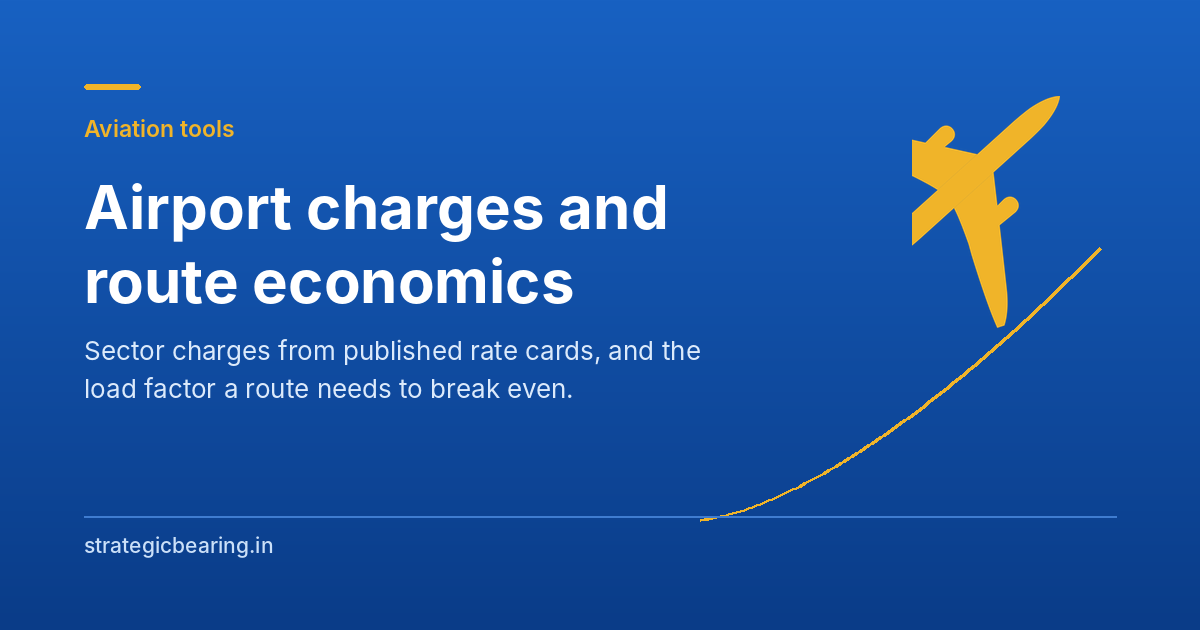
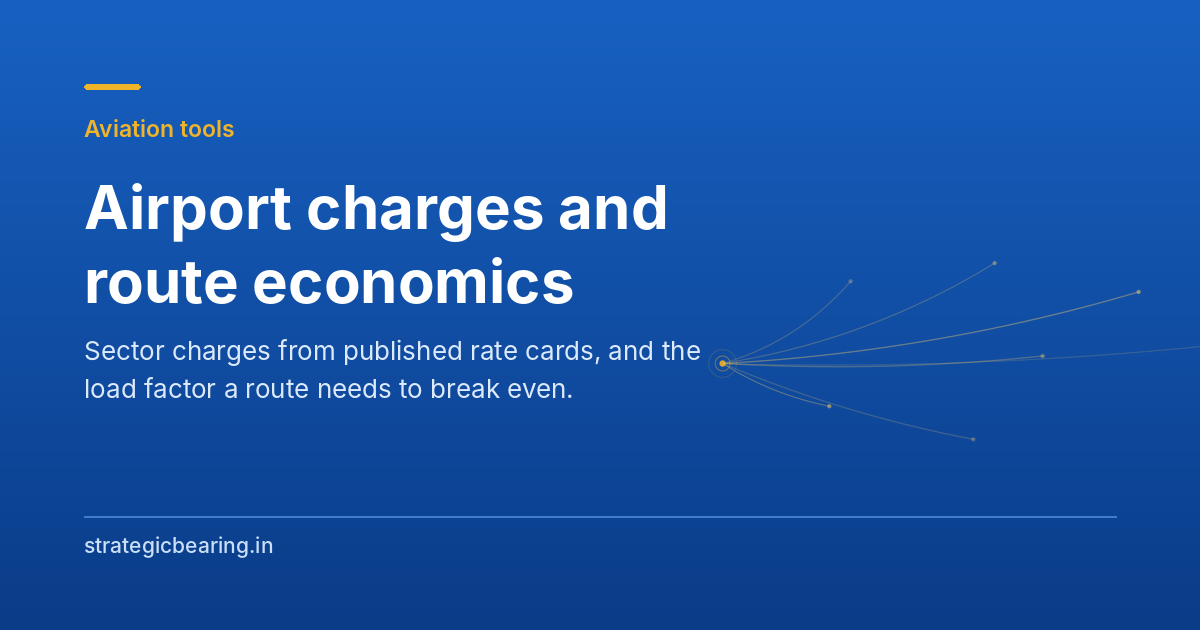
New theme

diff --git a/index.html b/index.html
@@ -245,16 +245,9 @@ footer a:hover{color:var(--accent-soft)}
 <header class="hero">
   <div class="hero-main">
   <svg class="departure" viewBox="0 0 620 600" aria-hidden="true" focusable="false">
-<defs>
-<linearGradient id="trk" x1="0" y1="1" x2="1" y2="0">
-<stop offset="0" stop-color="#FFD166" stop-opacity="0"/>
-<stop offset=".5" stop-color="#FFD166" stop-opacity=".3"/>
-<stop offset="1" stop-color="#FFD166" stop-opacity=".7"/>
-</linearGradient>
-</defs>
-<path d="M 28.0 486.0 L 31.9 485.8 L 35.8 485.4 L 39.8 484.9 L 43.7 484.3 L 47.6 483.5 L 51.5 482.7 L 55.4 481.7 L 59.4 480.7 L 63.3 479.6 L 67.2 478.5 L 71.1 477.2 L 75.0 475.9 L 79.0 474.5 L 82.9 473.1 L 86.8 471.6 L 90.7 470.0 L 94.6 468.4 L 98.6 466.7 L 102.5 465.0 L 106.4 463.2 L 110.3 461.3 L 114.2 459.4 L 118.2 457.4 L 122.1 455.4 L 126.0 453.4 L 129.9 451.2 L 133.8 449.1 L 137.8 446.9 L 141.7 444.6 L 145.6 442.3 L 149.5 439.9 L 153.4 437.5 L 157.4 435.1 L 161.3 432.6 L 165.2 430.1 L 169.1 427.5 L 173.0 424.9 L 177.0 422.2 L 180.9 419.5 L 184.8 416.8 L 188.7 414.0 L 192.6 411.1 L 196.6 408.3 L 200.5 405.3 L 204.4 402.4 L 208.3 399.4 L 212.2 396.4 L 216.2 393.3 L 220.1 390.2 L 224.0 387.0 L 227.9 383.9 L 231.8 380.6 L 235.8 377.4 L 239.7 374.1 L 243.6 370.7 L 247.5 367.4 L 251.4 364.0 L 255.4 360.5 L 259.3 357.0 L 263.2 353.5 L 267.1 350.0 L 271.0 346.4 L 275.0 342.8 L 278.9 339.1 L 282.8 335.4 L 286.7 331.7 L 290.6 327.9 L 294.6 324.1 L 298.5 320.3 L 302.4 316.5 L 306.3 312.6 L 310.2 308.6 L 314.2 304.7 L 318.1 300.7 L 322.0 296.7 L 325.9 292.6 L 329.8 288.5 L 333.8 284.4 L 337.7 280.3 L 341.6 276.1 L 345.5 271.9 L 349.4 267.6 L 353.4 263.3 L 357.3 259.0 L 361.2 254.7 L 365.1 250.3 L 369.0 245.9 L 373.0 241.5 L 376.9 237.0 L 380.8 232.5 L 384.7 228.0 L 388.6 223.5 L 392.6 218.9 L 396.5 214.3 L 400.4 209.6 L 404.3 205.0 L 408.2 200.3 L 412.2 195.5 L 416.1 190.8 L 420.0 186.0" fill="none" stroke="url(#trk)" stroke-width="2.2" stroke-linecap="round"/>
-<circle cx="51.5" cy="482.7" r="2.2" fill="#FFD166" opacity="0.15"/><circle cx="94.6" cy="468.4" r="2.2" fill="#FFD166" opacity="0.20"/><circle cx="137.8" cy="446.9" r="2.2" fill="#FFD166" opacity="0.25"/><circle cx="180.9" cy="419.5" r="2.2" fill="#FFD166" opacity="0.30"/><circle cx="224.0" cy="387.0" r="2.2" fill="#FFD166" opacity="0.34"/><circle cx="267.1" cy="350.0" r="2.2" fill="#FFD166" opacity="0.39"/><circle cx="310.2" cy="308.6" r="2.2" fill="#FFD166" opacity="0.44"/><circle cx="353.4" cy="263.3" r="2.2" fill="#FFD166" opacity="0.49"/><circle cx="396.5" cy="214.3" r="2.2" fill="#FFD166" opacity="0.54"/>
-<g transform="translate(438 172) rotate(48) scale(2.5150)"><g fill="#F0B429"><path d="M 2.98 24.4 C 12.00 30.8 20.00 36.5 26.80 41.4 C 29.40 43.4 31.20 45.3 32.37 47.3 L 31.60 49.0 C 28.00 47.9 22.00 45.4 14.20 41.8 L 11.80 40.6 C 8.60 39.3 5.60 38.1 2.98 37.4 Z"/><path d="M -2.98 24.4 C -12.00 30.8 -20.00 36.5 -26.80 41.4 C -29.40 43.4 -31.20 45.3 -32.37 47.3 L -31.60 49.0 C -28.00 47.9 -22.00 45.4 -14.20 41.8 L -11.80 40.6 C -8.60 39.3 -5.60 38.1 -2.98 37.4 Z"/><path d="M 2.00 55.8 C 4.60 57.2 7.20 59.2 9.30 61.3 L 8.60 62.4 C 6.20 61.2 3.80 60.3 1.75 59.8 Z"/><path d="M -2.00 55.8 C -4.60 57.2 -7.20 59.2 -9.30 61.3 L -8.60 62.4 C -6.20 61.2 -3.80 60.3 -1.75 59.8 Z"/><path d="M 10.50 30.0 L 12.70 30.0 L 13.10 35.4 L 10.10 35.4 Z"/><path d="M -10.50 30.0 L -12.70 30.0 L -13.10 35.4 L -10.10 35.4 Z"/><path d="M 0 0 C 1.35 1.4 2.3 4.2 2.74 7.6 C 2.92 9.6 2.98 11.6 2.98 13.4 L 2.98 48.0 C 2.94 52.6 2.66 57.4 2.02 61.6 C 1.72 63.8 1.22 65.8 0.62 66.8 L -0.62 66.8 C -1.22 65.8 -1.72 63.8 -2.02 61.6 C -2.66 57.4 -2.94 52.6 -2.98 48.0 L -2.98 13.4 C -2.98 11.6 -2.92 9.6 -2.74 7.6 C -2.3 4.2 -1.35 1.4 0 0 Z"/><path d="M 9.45 27.0 C 9.45 25.5 10.40 24.7 11.60 24.7 C 12.80 24.7 13.75 25.5 13.75 27.0 L 13.45 33.0 C 13.45 33.9 12.60 34.4 11.60 34.4 C 10.60 34.4 9.75 33.9 9.75 33.0 Z"/><path d="M -9.45 27.0 C -9.45 25.5 -10.40 24.7 -11.60 24.7 C -12.80 24.7 -13.75 25.5 -13.75 27.0 L -13.45 33.0 C -13.45 33.9 -12.60 34.4 -11.60 34.4 C -10.60 34.4 -9.75 33.9 -9.75 33.0 Z"/><path d="M 0 47.0 C 0.58 49.2 0.78 53.4 0.78 58.2 L 0.78 62.8 L -0.78 62.8 L -0.78 58.2 C -0.78 53.4 -0.58 49.2 0 47.0 Z"/></g></g>
+<path d="M 142.0 368.0 Q 267.1 275.2 318.0 128.0" fill="none" stroke="#FFD166" stroke-width="2.3" opacity="0.30" stroke-linecap="round"/><path d="M 142.0 368.0 Q 337.4 271.4 452.0 86.0" fill="none" stroke="#FFD166" stroke-width="1.7" opacity="0.42" stroke-linecap="round"/><path d="M 142.0 368.0 Q 375.2 311.3 560.0 158.0" fill="none" stroke="#FFD166" stroke-width="1.7" opacity="0.54" stroke-linecap="round"/><path d="M 142.0 368.0 Q 366.6 358.4 578.0 282.0" fill="none" stroke="#FFD166" stroke-width="2.3" opacity="0.30" stroke-linecap="round"/><path d="M 142.0 368.0 Q 314.3 388.0 486.0 364.0" fill="none" stroke="#FFD166" stroke-width="1.7" opacity="0.42" stroke-linecap="round"/><path d="M 142.0 368.0 Q 235.5 336.6 300.0 262.0" fill="none" stroke="#FFD166" stroke-width="1.7" opacity="0.54" stroke-linecap="round"/><path d="M 142.0 368.0 Q 197.1 263.6 206.0 146.0" fill="none" stroke="#FFD166" stroke-width="2.3" opacity="0.30" stroke-linecap="round"/><path d="M 452.0 86.0 Q 494.9 138.6 560.0 158.0" fill="none" stroke="#FFD166" stroke-width="1.2" opacity="0.24" stroke-dasharray="3 5"/><path d="M 300.0 262.0 Q 384.3 328.8 486.0 364.0" fill="none" stroke="#FFD166" stroke-width="1.2" opacity="0.2" stroke-dasharray="3 5"/>
+<circle cx="318" cy="128" r="3.4" fill="#FFD166" opacity="0.42"/><circle cx="452" cy="86" r="3.4" fill="#FFD166" opacity="0.56"/><circle cx="560" cy="158" r="3.4" fill="#FFD166" opacity="0.70"/><circle cx="578" cy="282" r="3.4" fill="#FFD166" opacity="0.42"/><circle cx="486" cy="364" r="3.4" fill="#FFD166" opacity="0.56"/><circle cx="300" cy="262" r="3.4" fill="#FFD166" opacity="0.70"/><circle cx="206" cy="146" r="3.4" fill="#FFD166" opacity="0.42"/>
+<circle cx="142" cy="368" r="30" fill="none" stroke="#F0B429" stroke-width="1" opacity=".3"/><circle cx="142" cy="368" r="17" fill="none" stroke="#F0B429" stroke-width="1.5" opacity=".6"/><circle cx="142" cy="368" r="6" fill="#F0B429" opacity="1"/>
 </svg>
   <div class="roofline"></div>
   <div class="wrap">
